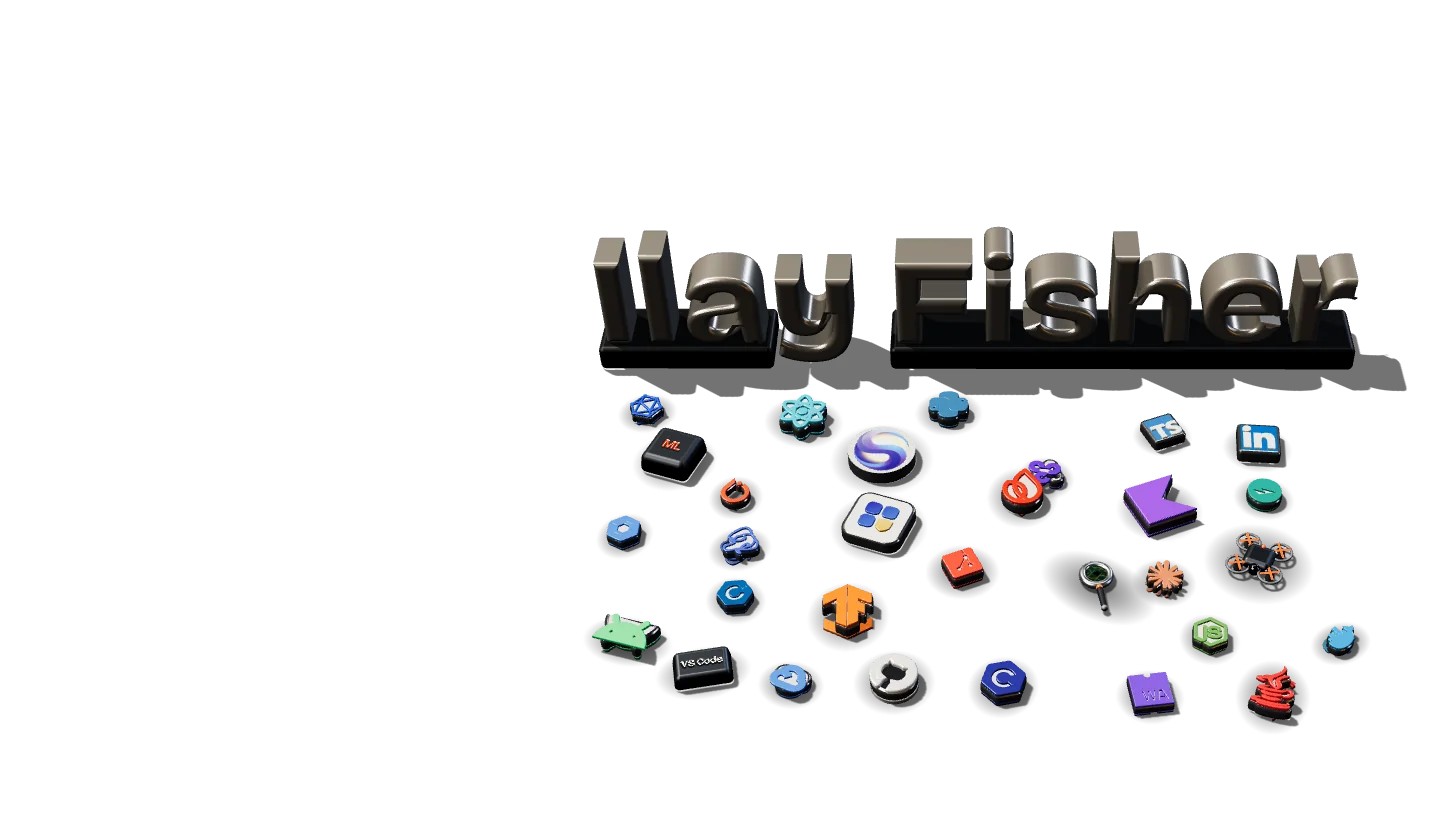
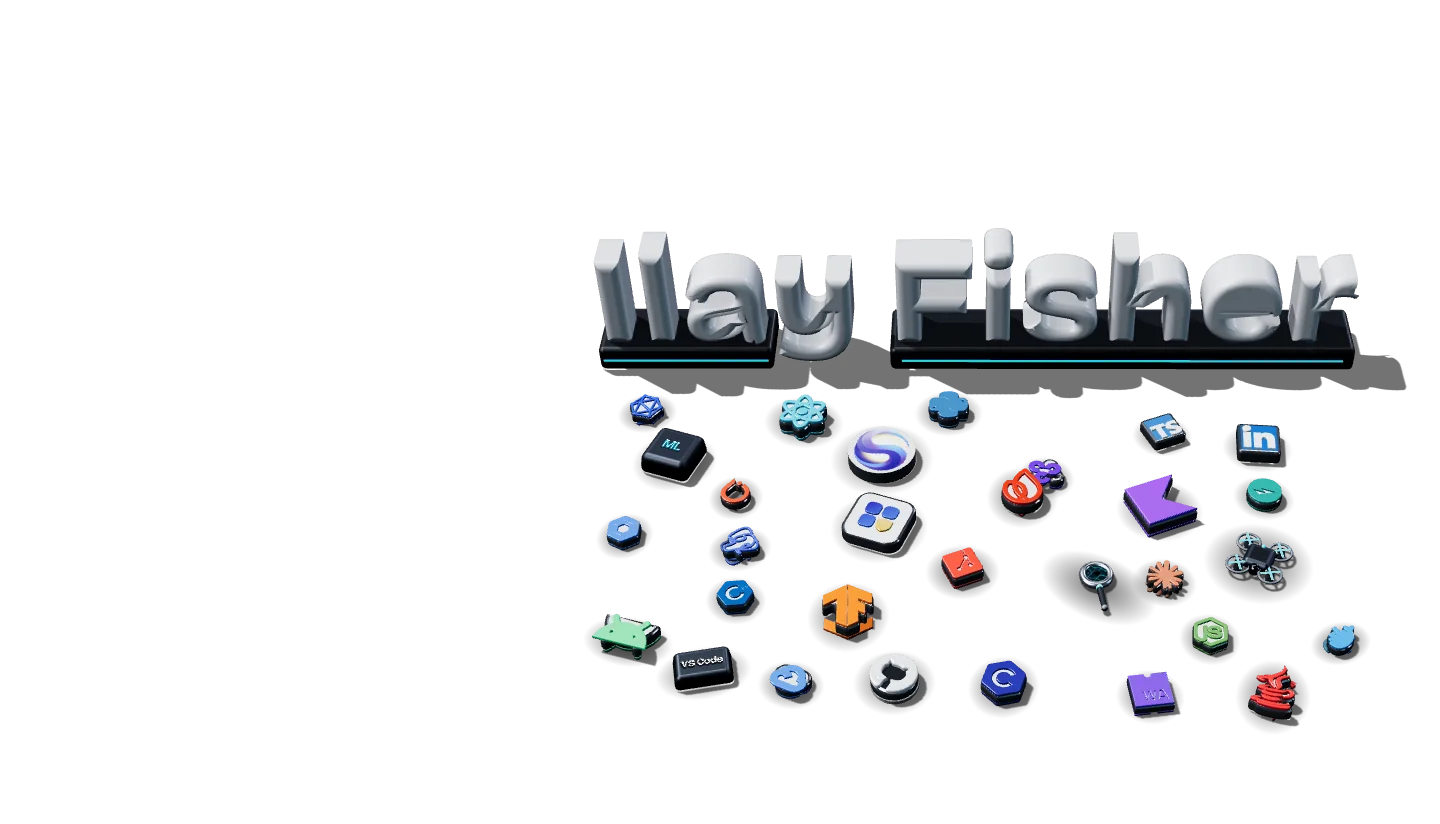
docs(design): palette-alive report, screenshots, regenerated hero stills, colour docs

diff --git a/docs/DESIGN.md b/docs/DESIGN.md
@@ -11,17 +11,17 @@ pink accent, one-shot fades. The owner called it too square, with weak motion, a
 in a sharp square ugly. v2 keeps the dark stage and the thesis (a rig you try to break) but
 changes the material: everything is a **rounded, lit, machined object**.
 
-| v1                                  | v2                                                                |
-| ----------------------------------- | ----------------------------------------------------------------- |
-| 0 to 2 px radii, hairline frames    | radius ladder 10 / 16 / 24 / 36 / pill, nothing is a sharp corner |
-| flat fills, hairlines as structure  | bevel + rim light + contact shadow from one top-left light        |
-| blueprint grid                      | light pools (`.ambient`) and film grain (`.grain`), no grid       |
-| pink-red `#ff3d6e`                  | signal orange family, amber specular, ember shade                 |
-| Bricolage 800 at 75% width, Fredoka | Bricolage 700 at normal width, one display face, Fredoka removed  |
-| ease-out fades on every reveal      | two shared springs, one loud motion at a time                     |
-| tick-mark nav, hairline underline   | floating pill nav with a sliding spring indicator                 |
-| square portrait                     | frameless avatar on the stage (alpha, contact pool, rim glow)     |
-| system cursor                       | opt-in signature cursor that hugs controls (fine pointer only)    |
+| v1                                  | v2                                                                    |
+| ----------------------------------- | --------------------------------------------------------------------- |
+| 0 to 2 px radii, hairline frames    | radius ladder 10 / 16 / 24 / 36 / pill, nothing is a sharp corner     |
+| flat fills, hairlines as structure  | bevel + rim light + contact shadow from one top-left light            |
+| blueprint grid                      | light pools (`.ambient`) and film grain (`.grain`), no grid           |
+| pink-red `#ff3d6e`                  | signal cyan family (v2.1; v2.0 was orange), pale specular, teal shade |
+| Bricolage 800 at 75% width, Fredoka | Bricolage 700 at normal width, one display face, Fredoka removed      |
+| ease-out fades on every reveal      | two shared springs, one loud motion at a time                         |
+| tick-mark nav, hairline underline   | floating pill nav with a sliding spring indicator                     |
+| square portrait                     | frameless avatar on the stage (alpha, contact pool, rim glow)         |
+| system cursor                       | opt-in signature cursor that hugs controls (fine pointer only)        |
 
 ### Migration note for feature workers
 
@@ -33,7 +33,7 @@ Use these. They exist and are stable:
 - **Shadow**: `--shadow-contact-sm`, `--shadow-contact` (resting), `--shadow-lift` (held or hovered
   up). Always lower right. Never `rgba(0,0,0,.1)` grey drop shadows.
 - **Bevel**: `--bevel-inset`, `--bevel-inset-sm`, `--well-inset` (recess), `--rim-gradient` (border
-  light), `--rim-light` (ember glow on the lower right edge).
+  light), `--rim-light` (accent glow on the lower right edge).
 - **Body**: `--body-gradient` (150deg, `--body-hi` to `--body-lo`) for any raised surface.
 - **Springs**: `--spring-soft` + `--spring-soft-dur` (880 ms, about 7% overshoot) for layout and
   entrances; `--spring-snappy` + `--spring-snappy-dur` (350 ms) for press and toggles. In JS:
@@ -52,28 +52,51 @@ than the two documented exceptions (section 6), and hiding the native cursor you
 
 ## 1. Palette (and why the accent changed)
 
-| Token              | Value                 | Role                                                        |
-| ------------------ | --------------------- | ----------------------------------------------------------- |
-| `--stage`          | `#0C1014`             | page background, blue-black graphite                        |
-| `--surface`        | `#131920`             | wells, inputs                                               |
-| `--surface-raised` | `#1B232C`             | hovered panels                                              |
-| `--body-hi/lo`     | `#28323D` / `#10151B` | lit and shaded ends of anodised bodies                      |
-| `--line`           | `#2B3542`             | soft separators inside cards                                |
-| `--line-strong`    | `#4A5668`             | control borders (3:1)                                       |
-| `--text`           | `#ECE8DF`             | primary text, 15.6:1 on stage                               |
-| `--text-dim`       | `#A8B0BC`             | secondary text, 8.1:1 on surface                            |
-| `--text-faint`     | `#8A93A1`             | captions, 5.7:1 on surface                                  |
-| `--paint`          | `#FF5A1F`             | accent: pressable or live. 6.1:1 on stage, 5.7:1 on surface |
-| `--paint-hi`       | `#FFB347`             | amber specular, top of gradients                            |
-| `--paint-deep`     | `#A8300F`             | ember shade, bottom of gradients and shadows                |
-| `--on-paint`       | `#0C1014`             | text on paint, 6.1:1; on paint-hi 10.7:1                    |
+| Token              | Value                 | Role                                                                          |
+| ------------------ | --------------------- | ----------------------------------------------------------------------------- |
+| `--stage`          | `#0C1014`             | page background, blue-black graphite                                          |
+| `--surface`        | `#131920`             | wells, inputs                                                                 |
+| `--surface-raised` | `#1B232C`             | hovered panels                                                                |
+| `--body-hi/lo`     | `#28323D` / `#10151B` | lit and shaded ends of anodised bodies                                        |
+| `--line`           | `#2B3542`             | soft separators inside cards                                                  |
+| `--line-strong`    | `#4A5668`             | control borders (3:1)                                                         |
+| `--text`           | `#ECE8DF`             | primary text, 15.6:1 on stage                                                 |
+| `--text-dim`       | `#A8B0BC`             | secondary text, 8.1:1 on surface                                              |
+| `--text-faint`     | `#8A93A1`             | captions, 5.7:1 on surface                                                    |
+| `--paint`          | `#1ED0F2`             | accent: pressable or live. 10.3:1 on stage, 9.6:1 on surface, 8.6:1 on raised |
+| `--paint-hi`       | `#8CF1FF`             | pale specular, top of gradients. 14.7:1 on stage                              |
+| `--paint-deep`     | `#0A6A87`             | teal shade, bottom of gradients and shadows (fills only, 3.1:1 on stage)      |
+| `--on-paint`       | `#0C1014`             | text on paint, 10.3:1; on paint-hi 14.7:1                                     |
+| `--pass`           | `#9AE06A`             | status green only (dot, pass). 12.0:1 on stage; hue 96 vs the accent's 190    |
 
-**Why orange.** Hardware you play with (a studio knob, a shutter button, a pilot lamp) lights in
-signal orange. It carries a highlight (amber) and a shade (ember) as one family, so a gradient
-reads as a lit object instead of a flat fill. It is warm against a cold graphite stage, passes AA
-as text and as a button fill with dark text, and it is not the pink of v1, nor the acid green,
-vermilion-on-black or cream and terracotta defaults. It is used for one thing per view: what you
-can press or what is live.
+**Why signal cyan.** The owner called the orange "tired" and asked for something alive in the
+blue-green range. Hardware you play with (a pilot lamp, an instrument backlight, a status LED on a
+studio rack) also lights in cyan, and on a blue-black graphite stage a cyan reads as light being
+emitted, where orange only ever read as paint. It carries a highlight (pale cyan) and a shade
+(deep teal) as one family, so a gradient reads as a lit object instead of a flat fill, and it
+passes AA as text (10.3:1 on stage) and as a button fill with dark text. Three families were
+tried on the real page (cyan `#1ED0F2`, azure `#3D9DFF`, mint-teal `#19E3A8`; see
+`docs/reports/img/palette-alive-options.png`). Azure looked like a default link colour. Mint-teal
+sat at hue 162, too close to the status green. Cyan (hue 190) is the most electric, has the most
+contrast headroom, and is far enough from any green to stay unambiguous.
+
+**Status green.** The availability dot and pass states use `--pass`, retuned from the minty
+`#7BE0B0` (hue 151) to a lime-leaning `#9AE06A` (hue 96), 94 degrees from the accent. Both lights
+stay visible side by side, and a unit test (`src/styles/tokens.test.ts`) holds the gap at 60
+degrees or more.
+
+Contrast ratios (WCAG 2.x, computed in `src/styles/tokens.test.ts`):
+
+| Pair                            | Ratio | Use                                |
+| ------------------------------- | ----- | ---------------------------------- |
+| `--paint` on `--stage`          | 10.33 | accent text, legends               |
+| `--paint` on `--surface`        | 9.57  | accent text in wells               |
+| `--paint` on `--surface-raised` | 8.58  | accent text on hovered panels      |
+| `--on-paint` on `--paint`       | 10.33 | button label                       |
+| `--on-paint` on `--paint-hi`    | 14.68 | label on the lit end of a button   |
+| `--paint-hi` on `--stage`       | 14.68 | pale accent text                   |
+| `--paint-deep` on `--stage`     | 3.11  | fills and shadows only, never text |
+| `--pass` on `--stage`           | 12.04 | status text and dot                |
 
 ## 2. Typography
 
@@ -106,7 +129,7 @@ Light is one source, top left (`--light-angle: 135deg`), shared with the 3D hero
 
 `PageFx` mounts `.ambient` (three blurred radial `.pool`s) and `.grain` (SVG noise at low opacity,
 slowly drifting) behind and above the page. `data-mood` on `.ambient` is set from the section in
-view (top, about, cool, amber, ember) and re-tints the pools over about 1.2 s. A grid draws a
+view (hero, about, cool, signal, deep) and re-tints the pools over about 1.2 s. A grid draws a
 technical drawing; pools and grain read as light in a dark room, which suits lit objects.
 Under reduced motion the pools are static and `grain[data-moving]` is `false`.
 

diff --git a/docs/reports/palette-alive.md b/docs/reports/palette-alive.md
@@ -1,0 +1,83 @@
+# Alive accent family and hero name treatment
+
+Owner feedback: "didn't love the tired orange. try something more alive like blue/green kind of
+stuff. also it should match the rest so if metalic isn't fit here use another headline (hero)".
+
+## Choice
+
+Three candidates were built on the real page and compared in
+`docs/reports/img/palette-alive-options.png`: cyan `#1ED0F2`, azure `#3D9DFF`, mint-teal
+`#19E3A8`. Cyan won. Azure read as a default link colour, mint-teal (hue 162) sat too close to the
+status green. Cyan has the most contrast headroom and reads as emitted light on the graphite stage.
+
+| Token          | Old       | New       |
+| -------------- | --------- | --------- |
+| `--paint`      | orange    | `#1ED0F2` |
+| `--paint-hi`   | amber     | `#8CF1FF` |
+| `--paint-deep` | rust      | `#0A6A87` |
+| `--on-paint`   | dark      | `#0C1014` |
+| `--pass`       | `#7BE0B0` | `#9AE06A` |
+
+Token names are unchanged, so every consumer picks the new family up.
+
+### Contrast (WCAG 2.x)
+
+`--paint` on stage 10.33, on surface 9.57, on raised 8.58. `--on-paint` on `--paint` 10.33, on
+`--paint-hi` 14.68. `--paint-hi` on stage 14.68. `--pass` on stage 12.04. `--paint-deep` 3.11 on
+stage: fills and shadows only, never text. All text pairs pass AA and AAA. Full table in
+`docs/DESIGN.md`.
+
+### Status green
+
+The old mint pass green (hue 151) was too close to a teal accent. Retuned to lime-leaning
+`#9AE06A` (hue 96), 94 degrees from the accent. A unit test holds the gap at 60 degrees or more.
+
+## Orange hunt
+
+Hard-coded warm values removed from: CSS (Button, Experience), hero scene fallbacks and lights
+(`runtime.ts`, `env.ts`, `materials.ts`, `screens.ts`), SafeSurf burn shader and ember defaults
+(`dissolve.ts`, `BurnStage.ts`), the drone canvas fallback palette (`render.ts`), X-Ray palette
+tests, PageFx moods (`amber` -> `signal`, `ember` -> `deep`), and `public/favicon.svg` (now a
+rounded cyan mark). `src/styles/noOrange.test.ts` scans src, `index.html` and the favicon for warm
+hex and rgb literals and fails on the old values and mood names.
+
+Left on purpose: real brand marks (Java, TensorFlow, Acrobat, the gold SafeGuard shield) in
+`scene/marks.ts` and `logic/safeguardIcon.ts`, and the warm sunset in the SafeSurf article
+illustration (content art, not UI accent). Both are on the guard test's allowlist or out of its
+scope.
+
+## Hero name
+
+Judged against the new palette, the brushed grey-bronze alloy no longer fit: it was warm metal on
+a cool stage. The letters are now glossy white ceramic (clearcoat 0.85, metalness 0) on dark
+plinths, with a thin rounded cyan inlay line on each plinth front. Bevel radius went 0.042 -> 0.06
+with 12 segments, so edges are rounder. The inlay is visual only: colliders come from the layout
+and are untouched. Stills (`public/hero/still-*.webp`) regenerated from the live scene.
+Before and after: `docs/reports/img/palette-alive-name-before-after.png`.
+
+## Tests
+
+- New: `tokens.test.ts` (values, rgb triplets, hue range, contrast, status-green gap),
+  `noOrange.test.ts` (guard), `nameMaterials.test.ts`. Red `test:` commit first for the first
+  two; the name test was written after the code.
+- Unit: 683 passing. Lint and typecheck clean. Build clean.
+- E2E, `--workers=1`, production preview: hero, smoke, design, safesurf, drone, xray specs: 90 passed.
+
+## Screenshots (all from the production build)
+
+`docs/reports/img/palette-alive-*.png`: options, hero, safesurf-rest, safesurf-burn, drone, xray,
+nav, contact at 1440 and 390 (burn at 1440 is a genuine mid-burn frame; the burn edge uses the
+status green by design), plus name-before-after.
+
+## Shared files touched
+
+`src/styles/tokens.css`, `src/styles/global.css` (pool class names), `src/components/Button/Button.css`,
+`src/sections/Experience/Experience.css` (colour literals), `src/components/PageFx/PageFx.tsx`,
+`src/lib/pageFx.ts` (mood renames), `src/components/LinkKey/LinkKey.css` and
+`src/sections/Contact/Contact.css` (comments only).
+
+## Known limits
+
+The 390 burn image is not mid-burn. The pre-existing "flip" chip and cursor ring appear in some
+screenshots and are not part of this change. The `docs/DESIGN.md` diff includes Prettier table
+realignment.

diff --git a/docs/ART_DIRECTION.md b/docs/ART_DIRECTION.md
@@ -45,13 +45,21 @@ not a spreadsheet.
 
 ## Colour
 
-- The pink `#FF3D6E` read as bubblegum. Replace the accent family with a hot, technical
-  signal colour in the orange-red range (international orange, drone and flight hardware),
-  with a lighter amber for speculars and a deep ember for shadowed accent surfaces. The
-  design worker picks exact values, checks AA contrast and keeps the token names.
+- The pink `#FF3D6E` read as bubblegum, and its successor, signal orange `#FF5A1F`, read as
+  "tired" to the owner, who asked for something alive in the blue-green range. The accent
+  family is now **signal cyan**: `#1ED0F2` (`--paint`), a pale `#8CF1FF` for speculars and
+  lit edges (`--paint-hi`) and a deep teal `#0A6A87` for shadowed accent surfaces
+  (`--paint-deep`). It reads as a pilot lamp or an instrument backlight on the blue-black
+  stage, not candy and not neon. Values, contrast ratios and the reasoning: `docs/DESIGN.md`,
+  section 1. Three families were compared on the real page first
+  (`docs/reports/img/palette-alive-options.png`).
+- The status green (availability dot, pass states) was retuned to a lime-leaning `#9AE06A`
+  (hue 96 against the accent's 190), so a status light and an accent light never look alike.
+- The hero name is glossy paper-white ceramic on a dark anodised plinth with a signal inlay
+  line. Brushed metal letters are retired: grey alloy read muddy beside the dark bodies.
 - Accent is for what is live or pressable: legends on keys, the armed switch, the path, the
   burn front, one word in a headline. Never large flat fills behind text.
-- Text stays warm paper on the dark stage. Green stays a status-only colour.
+- Text stays warm paper on the dark stage. Green stays a status-only colour and never shares a hue with the accent.
 
 ## Type
 
